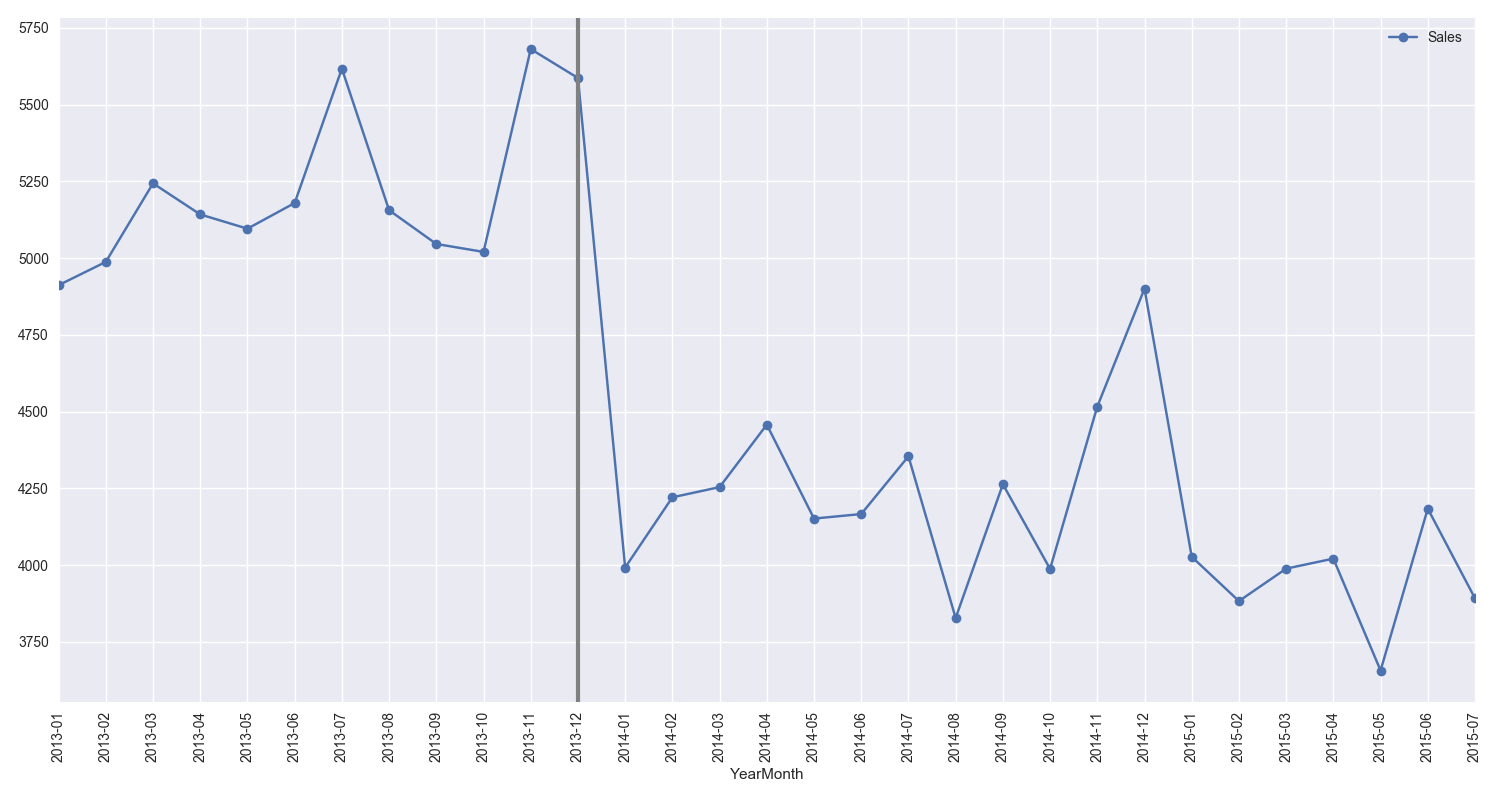
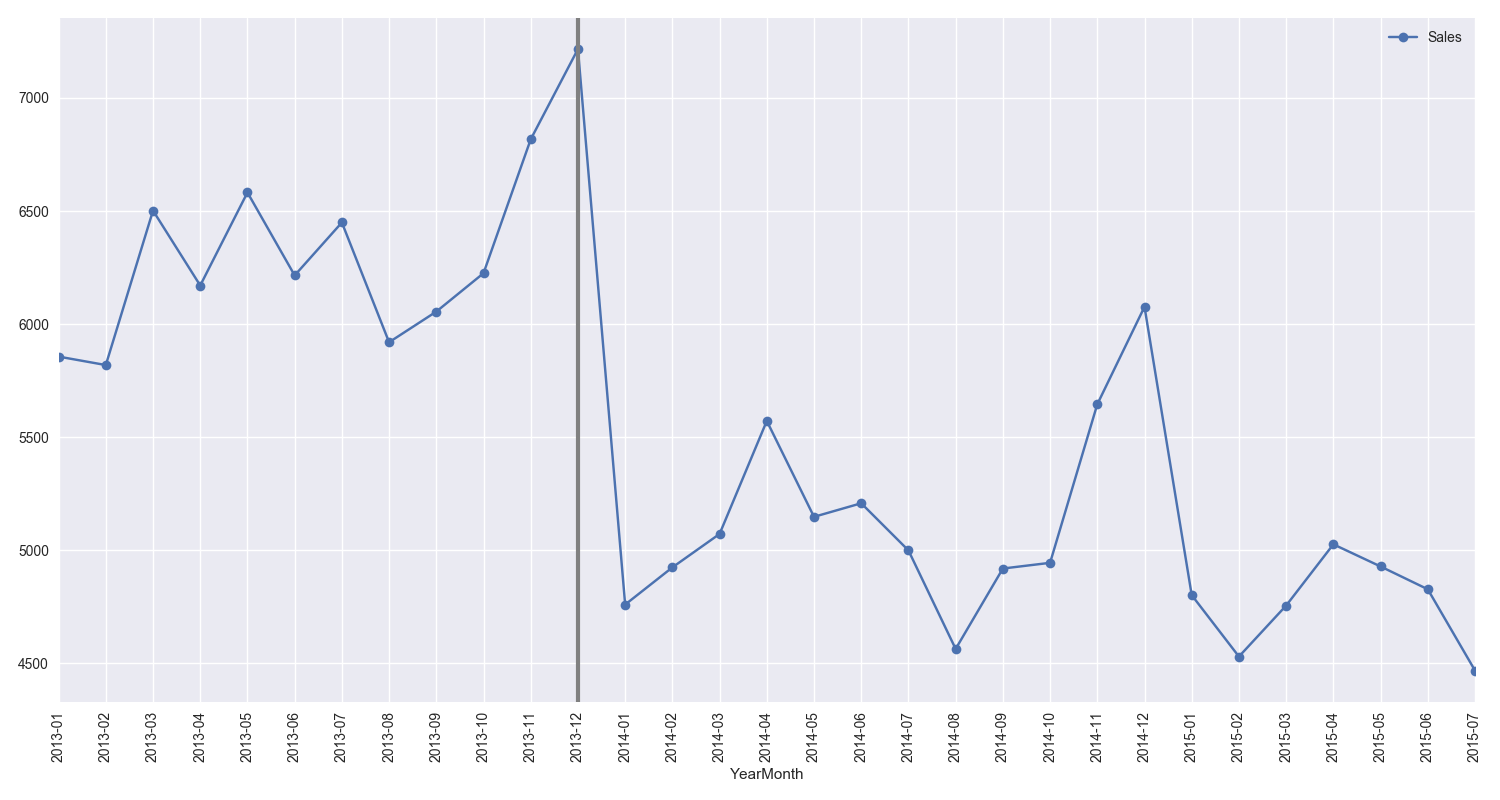
Updated Effect of Competition Plot for Open Days

diff --git a/generateplots.py b/generateplots.py
@@ -489,7 +489,7 @@ print("Plotted Competition Distance vs. Avg. Customers")
 ############################################
 
 store_id = 6
-store_data = training_df[training_df["Store"] == store_id]
+store_data = training_df_open[training_df_open["Store"] == store_id]
 average_store_sales = store_data.groupby("YearMonth")["Sales"].mean()
 
 y = store_df["CompetitionOpenSinceYear"].loc[store_df["Store"] == store_id].values[0]
